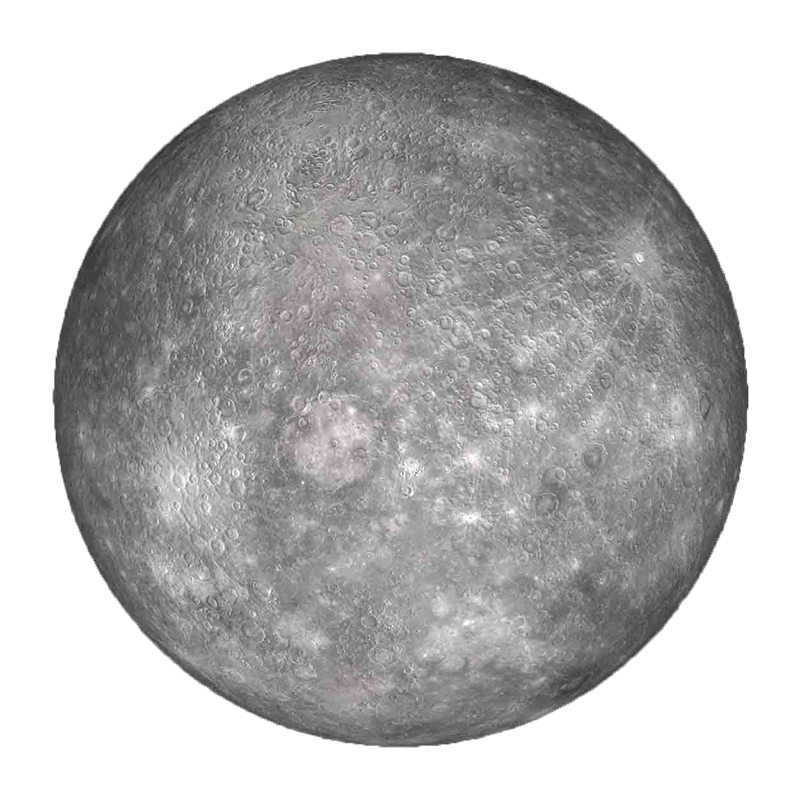
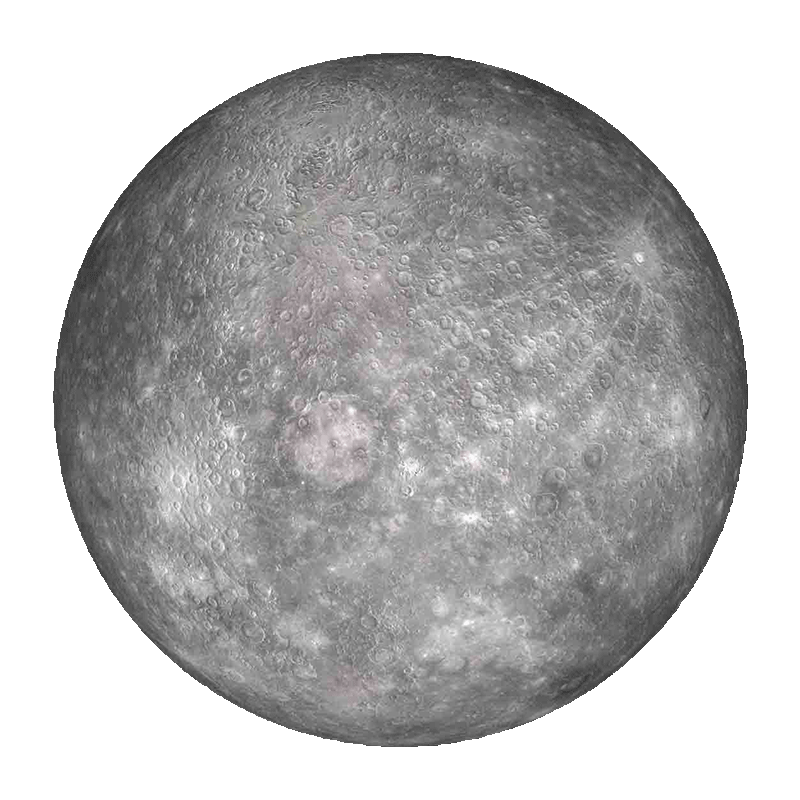
progressive loading

diff --git a/pages/safety.html b/pages/safety.html
@@ -77,7 +77,7 @@
       <div class="squares">
             <div class="square">
                   <div class="img-wrapper">
-                        <img src="../media/Images/virtual-time-travel-2022-05-28-10-49-14-utc.jpg" alt="space man">
+                        <img src="../media/Images/virtual-time-travel-2022-05-28-10-49-14-utc.png" alt="space man">
                   </div>
 
                   <div class="square-text-wrapper">
@@ -105,12 +105,12 @@
                         </ul>
                   </div>
                   <div class="img-wrapper">
-                        <img src="../media/Images/two-little-boys-and-girl-in-space-suits-playing-as-2022-12-16-17-00-23-utc.jpg" alt="two boys and girl in space suits">
+                        <img src="../media/Images/two-little-boys-and-girl-in-space-suits-playing-as-2022-12-16-17-00-23-utc.png" alt="two boys and girl in space suits">
                   </div>
             </div>
             <div class="square">
                   <div class="img-wrapper">
-                        <img src="../media/Images/spiral-needstobereplaced.jpg" alt="spiral">
+                        <img src="../media/Images/spiral-needstobereplaced.png" alt="spiral">
                   </div>
                   <div class="square-text-wrapper">
                         <a href="#kids" name="kids" class="anchor-link">

diff --git a/styles/info.css b/styles/info.css
@@ -9,7 +9,7 @@
 }
 
 .planning .parallax-two {
-    background-image: url("../media/Images/spin-moon-orbit-motion-milky-way-galaxy-background-2021-12-09-20-06-10-utc.jpg");
+    background-image: url("../media/Images/spin-moon-orbit-motion-milky-way-galaxy-background-2021-12-09-20-06-10-utc.png");
     min-height: 100%;
     background-attachment: fixed;
     background-position: center;

diff --git a/styles/safety.css b/styles/safety.css
@@ -45,7 +45,7 @@ body{
 }
 
 .safety .parallax-two {
-    background-image: url("../media/Images/old-img/astronaut-2021-08-26-15-29-33-utc.jpg");
+    background-image: url("../media/Images/old-img/astronaut-2021-08-26-15-29-33-utc.png");
     min-height: 300px;
     background-attachment: fixed;
     background-position: center;

diff --git a/styles/parallax.css b/styles/parallax.css
@@ -9,7 +9,6 @@ body {
 
 
 .hero-section {
-    background-image: url(../media/team5/5.jpg);
     padding: 200px;
     padding-top: 0px;
     height: 900px;
@@ -38,7 +37,6 @@ body {
 }
 
 .safety-info {
-    background-image: url(../media/team5/8.jpg);
     padding: 200px;
     padding-top: 0px;
     height: 800px;

diff --git a/styles/launch.css b/styles/launch.css
@@ -2,7 +2,7 @@
 
 .launch-1 .parallax {
   padding-top: 0px;
-   background-image: url("../media/Images/Planet\ Earth\ Background\ V1.jpg");
+   background-image: url("../media/Images/planet-earth-background-v1.png");
    min-height: 500px;
    background-attachment: fixed;
    background-position: center;

diff --git a/styles/sources-1.css b/styles/sources-1.css
@@ -1,5 +1,5 @@
 .parallax {
-  background-image: url("../media/Images/astronautholdingglobe.jpg");
+  background-image: url("../media/Images/astronautholdingglobe.png");
   min-height: 100vh;
   width: auto;
   background-attachment: fixed;
